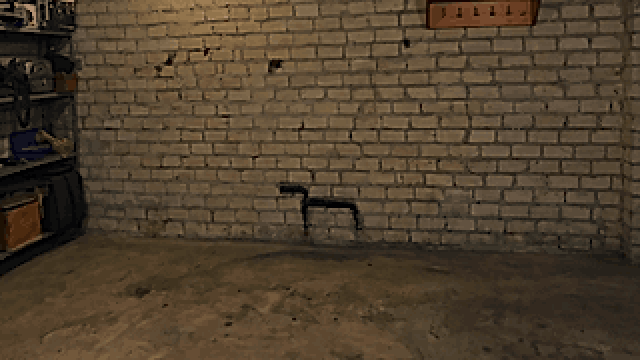
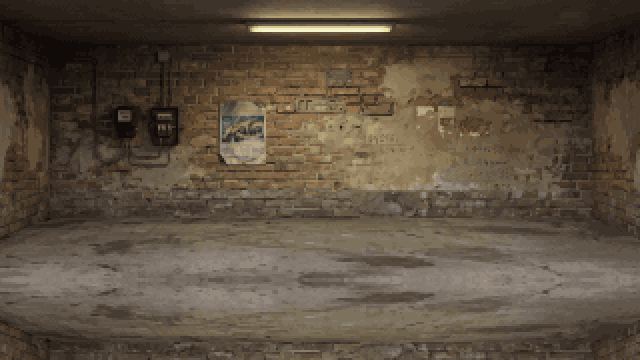
feat(art): новый фон гаража через codixel, машина на полу с тенью
Фон тюнинга, результата и финала — из фото гаража с кирпичной стеной
и лампой дневного света (art/source/garage_tuning.jpg). Чтобы машина
стояла на полу над лотком интерфейса, из глухого куска стены вырезаны
ровно 9 рядов кирпича (стык не виден), низ кадра достроен зеркалом
пола; низ стены — y 216, машина — на y 248 перед стеной. Пиксели —
функциями скилла codixel (resize, quantize с дизерингом, cleanup),
команда npm run garage-bg.

Свет в сцене идёт от лампы на фоне вместо нарисованной лампочки.
Тень машины — пиксельный слой car_shadow: пол под порогом в густой
тени, тёмные пятна контакта шин, мягкий край ступенями.

diff --git a/src/scenes/garageBackdrop.js b/src/scenes/garageBackdrop.js
@@ -1,53 +1,68 @@
 /**
- * Комната гаража: пиксельный фон из фото гаража (bg_garage), лампа над машиной, тёплый свет
- * на неё. Общая для тюнинга, результата и финала — машина везде стоит в одном и том же гараже.
+ * Комната гаража: пиксельный фон из фото (bg_garage, собирает tools/build-garage-bg.mjs) —
+ * кирпичная стена, лампа дневного света под потолком, бетонный пол. Общая для тюнинга,
+ * результата и финала. Машина стоит на полу перед стеной (низ стены — config.garage.wallY),
+ * свет падает от лампы на неё, под машиной — её тень (слой car_shadow).
  * Мир 640×360; машина — главный яркий объект, стена к краям приглушена.
  */
 import Phaser from 'phaser';
 import { WORLD } from '../config/constants.js';
+import config from '../../data/config.json';
 import { buildCar } from '../systems/buildCar.js';
 import { gameState } from '../gameState.js';
 
-const LIGHT = 0xffd9a0;
+const LIGHT = 0xfff1d0; // холодно-тёплый свет люминесцентной лампы
+/** Лампа на фоне: x 244…396, низ на y 33 (по фото). */
+const TUBE = { x0: 244, x1: 396, y: 33 };
 
-/** Фон гаража, приглушение к краям, лампа и конус света на машину. */
+/** Фон гаража, приглушение к краям, свет лампы на машину и пол. */
 export function drawGarageRoom(scene, { lampX, groundY }) {
   const { width, height } = WORLD;
+  const wallY = config.garage.wallY;
   scene.add.image(0, 0, 'bg_garage').setOrigin(0);
 
-  // Приглушение: сверху и по бокам темнее — взгляд идёт к машине под лампой.
+  // Приглушение: по бокам темнее, под потолком чуть темнее (но не лампа) — взгляд к машине.
   const shade = scene.add.graphics();
-  shade.fillGradientStyle(0x000000, 0x000000, 0x000000, 0x000000, 0.55, 0.55, 0, 0);
-  shade.fillRect(0, 0, width, groundY * 0.7);
-  const edge = 140;
+  shade.fillGradientStyle(0x000000, 0x000000, 0x000000, 0x000000, 0.3, 0.3, 0, 0);
+  shade.fillRect(0, TUBE.y + 4, width, wallY * 0.45);
+  const edge = 150;
   shade.fillGradientStyle(0x000000, 0x000000, 0x000000, 0x000000, 0.6, 0, 0.6, 0);
   shade.fillRect(0, 0, edge, height);
   shade.fillGradientStyle(0x000000, 0x000000, 0x000000, 0x000000, 0, 0.6, 0, 0.6);
   shade.fillRect(width - edge, 0, edge, height);
 
-  // Лампа на проводе и конус света — ступенчатые слои с режимом ADD.
-  const g = scene.add.graphics();
-  g.fillStyle(0x0b0a08).fillRect(lampX - 1, 0, 2, 26);
-  g.fillStyle(0x3a352e).fillRect(lampX - 10, 26, 20, 5);
-  g.fillStyle(0xffe2a8).fillRect(lampX - 4, 31, 8, 3);
   const light = scene.add.graphics().setBlendMode(Phaser.BlendModes.ADD);
-  for (const [w, a] of [
-    [190, 0.03],
-    [150, 0.035],
-    [110, 0.04],
-  ]) {
+  // Свечение самой лампы.
+  for (const [pad, a] of [
+    [14, 0.05],
+    [8, 0.07],
+    [3, 0.1],
+  ])
     light
       .fillStyle(LIGHT, a)
-      .fillTriangle(lampX - 10, 32, lampX + 10, 32, lampX + w, groundY)
-      .fillTriangle(lampX - 10, 32, lampX - w, groundY, lampX + w, groundY);
-  }
+      .fillRect(TUBE.x0 - pad, TUBE.y - 6 - pad / 2, TUBE.x1 - TUBE.x0 + pad * 2, 6 + pad);
+  // Свет от лампы вниз на машину — ступенчатые трапеции, шире к полу.
+  for (const [w, a] of [
+    [230, 0.025],
+    [180, 0.03],
+    [130, 0.035],
+  ])
+    light.fillStyle(LIGHT, a).fillPoints(
+      [
+        { x: TUBE.x0, y: TUBE.y },
+        { x: TUBE.x1, y: TUBE.y },
+        { x: lampX + w, y: groundY },
+        { x: lampX - w, y: groundY },
+      ],
+      true,
+    );
+  // Пятно света на полу вокруг машины (тень машины лежит поверх).
   for (const [w, h, a] of [
-    [340, 26, 0.06],
-    [250, 18, 0.07],
-    [160, 10, 0.08],
-  ]) {
-    light.fillStyle(LIGHT, a).fillEllipse(lampX, groundY + 4, w, h);
-  }
+    [420, 30, 0.05],
+    [320, 20, 0.06],
+    [220, 12, 0.07],
+  ])
+    light.fillStyle(LIGHT, a).fillEllipse(lampX, groundY + 2, w, h);
 }
 
 /**

diff --git a/src/systems/CarRig.js b/src/systems/CarRig.js
@@ -33,6 +33,7 @@ const DENSITY = car.density ?? 1;
 const TEX = 1 / DENSITY;
 
 const IMAGES = [
+  'car_shadow',
   'car_wells',
   'car_base',
   'car_paint',
@@ -91,8 +92,8 @@ export class CarRig extends Phaser.GameObjects.Container {
         .setOrigin(0)
         .setScale(TEX);
 
-    // Тень на земле.
-    this.shadow = scene.add.ellipse(0, -1, car.size.width - 30, 8, 0x000000, 0.45);
+    // Тень на земле — пиксельный слой (car.shadow.above — сколько его лежит выше земли).
+    this.shadow = scene.add.image(-AX, -car.shadow.above, 'car_shadow').setOrigin(0).setScale(TEX);
 
     // Неон: свечение под днищем.
     this.neon = scene.add

diff --git a/README.md b/README.md
@@ -73,14 +73,15 @@ npm run dev
 <details>
 <summary>Другие команды</summary>
 
-| Команда           | Что делает                                       |
-| ----------------- | ------------------------------------------------ |
-| `npm run build`   | Сборка в папку `dist`                            |
-| `npm run preview` | Запуск собранной версии                          |
-| `npm test`        | Тесты                                            |
-| `npm run check`   | Линтер, форматирование, тесты и сборка разом     |
-| `npm run car`     | Пересобрать пиксельную машину из генератора      |
-| `npm run art`     | Пересобрать пиксельные фоны из исходных картинок |
+| Команда             | Что делает                                       |
+| ------------------- | ------------------------------------------------ |
+| `npm run build`     | Сборка в папку `dist`                            |
+| `npm run preview`   | Запуск собранной версии                          |
+| `npm test`          | Тесты                                            |
+| `npm run check`     | Линтер, форматирование, тесты и сборка разом     |
+| `npm run car`       | Пересобрать пиксельную машину из генератора      |
+| `npm run art`       | Пересобрать пиксельные фоны из исходных картинок |
+| `npm run garage-bg` | Пересобрать фон гаража (нужен скилл codixel)     |
 
 </details>
 
